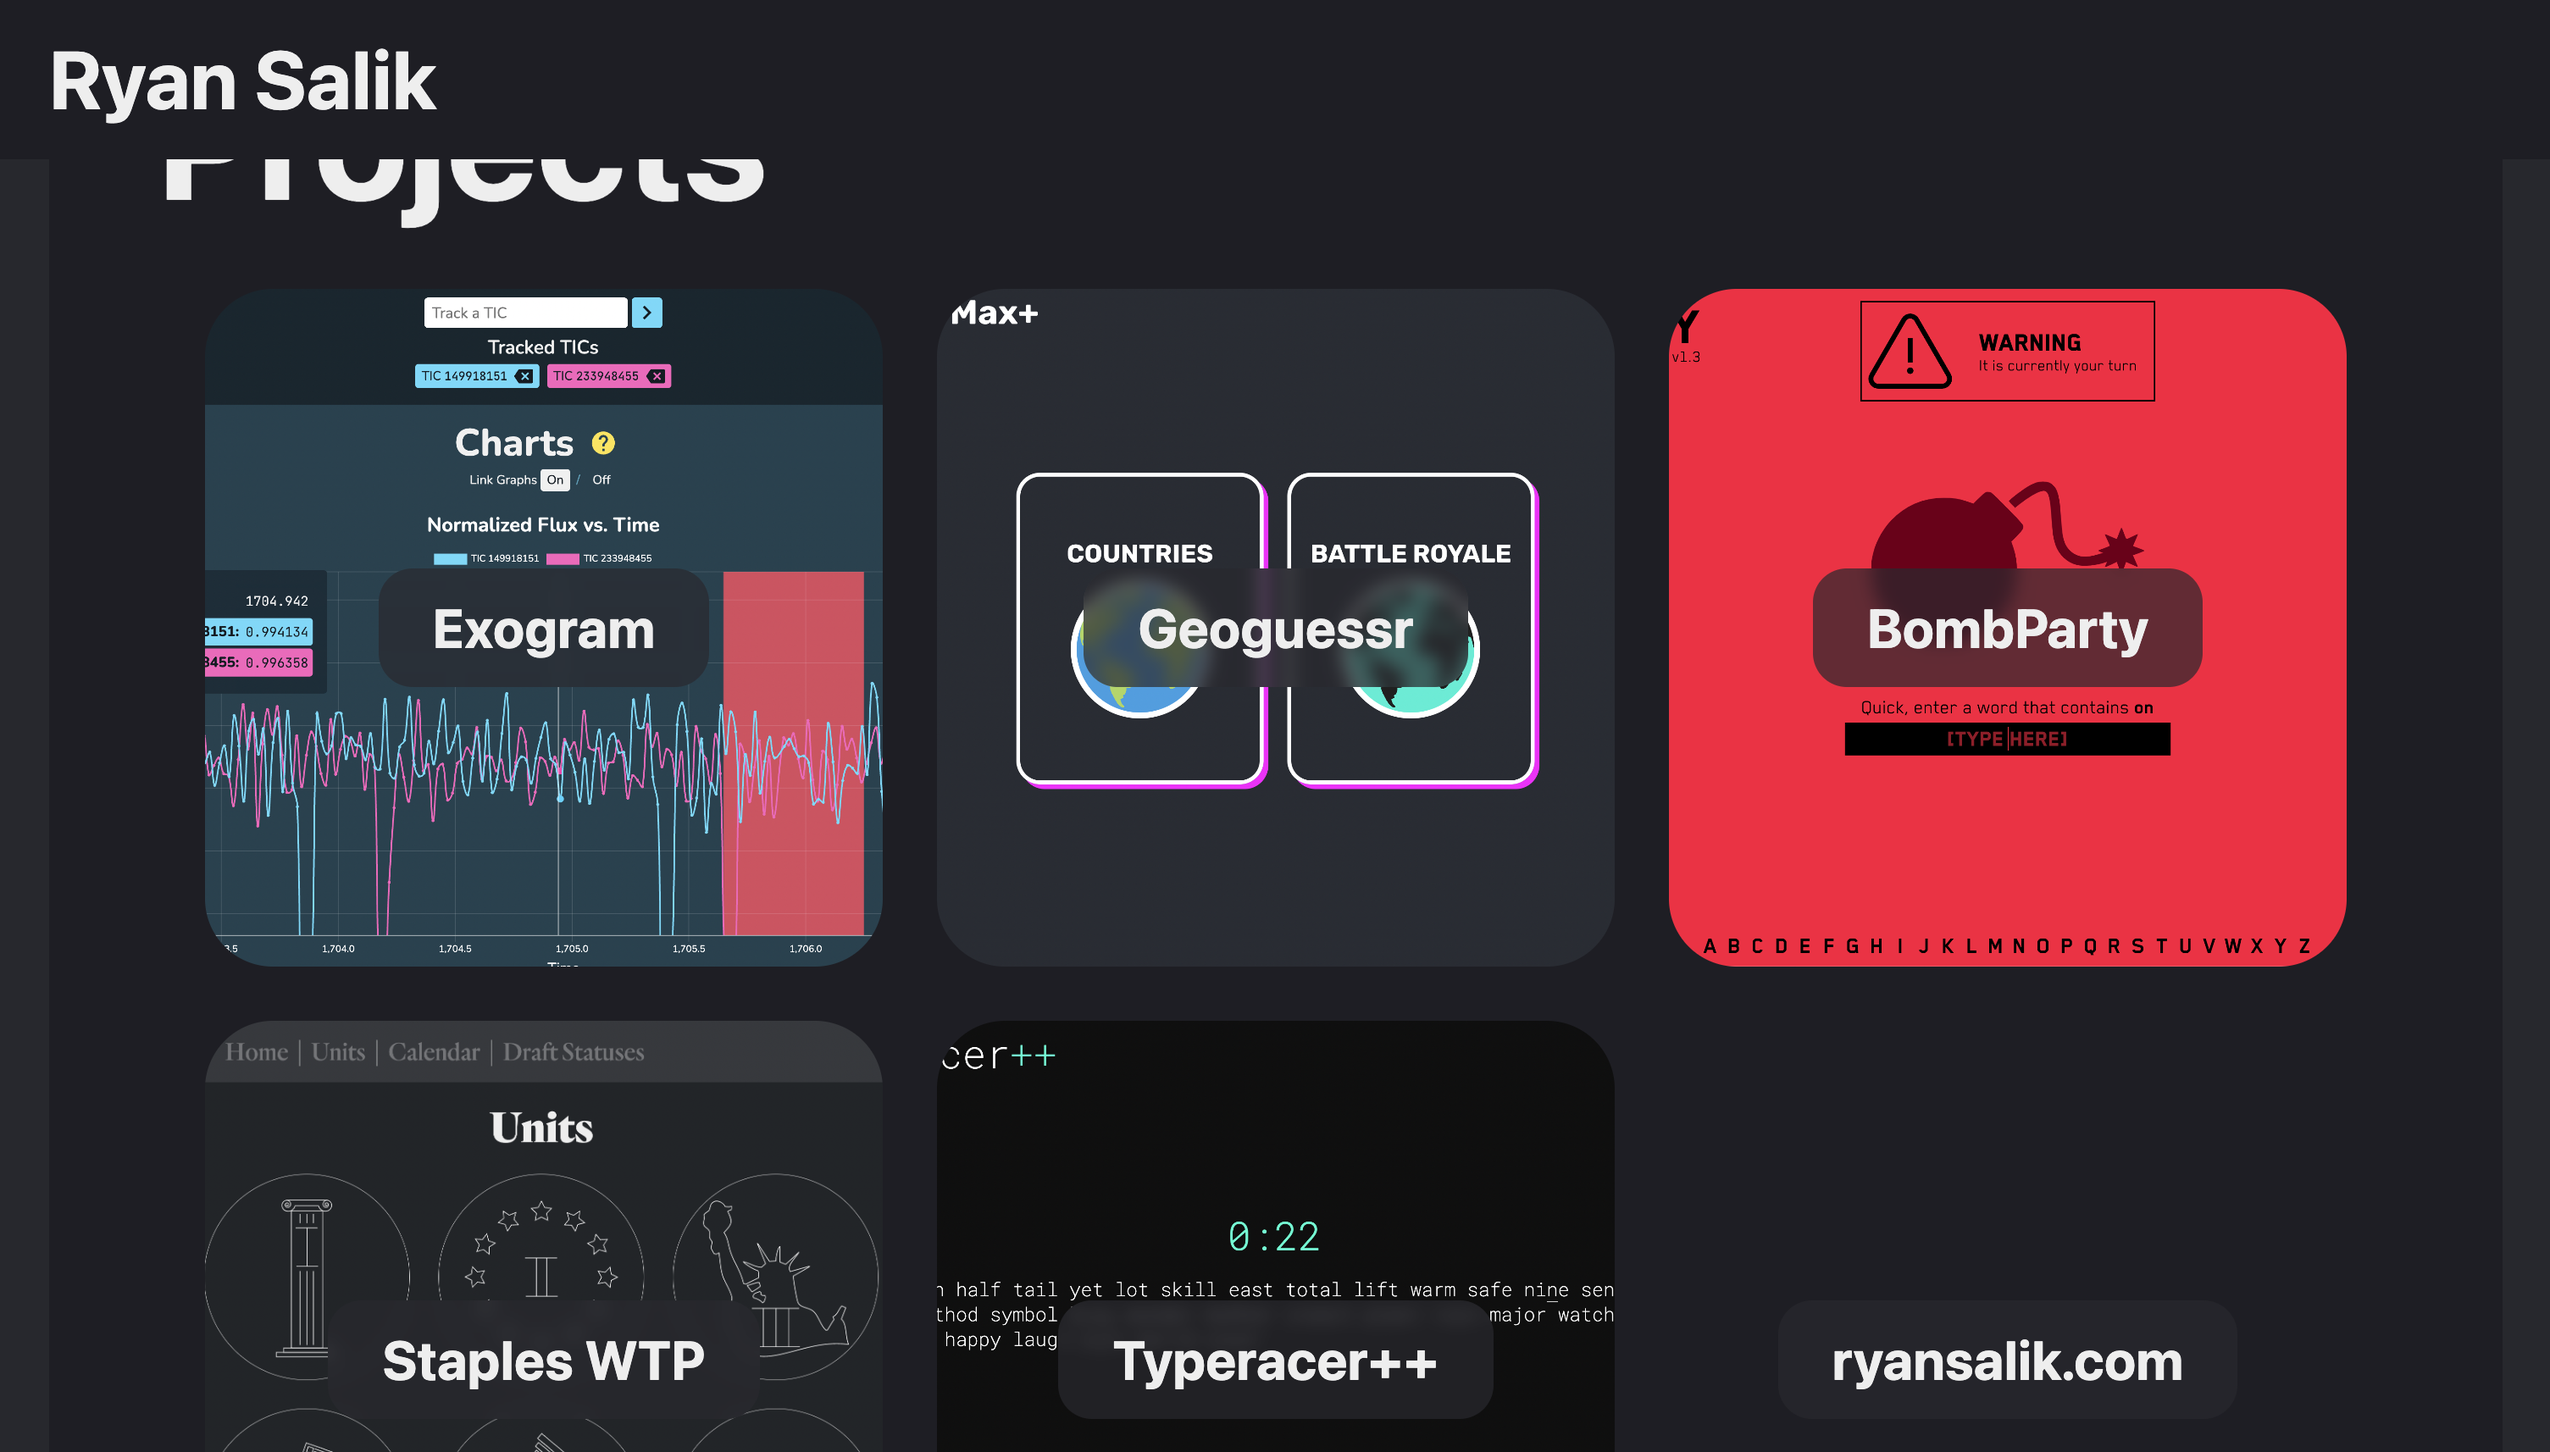
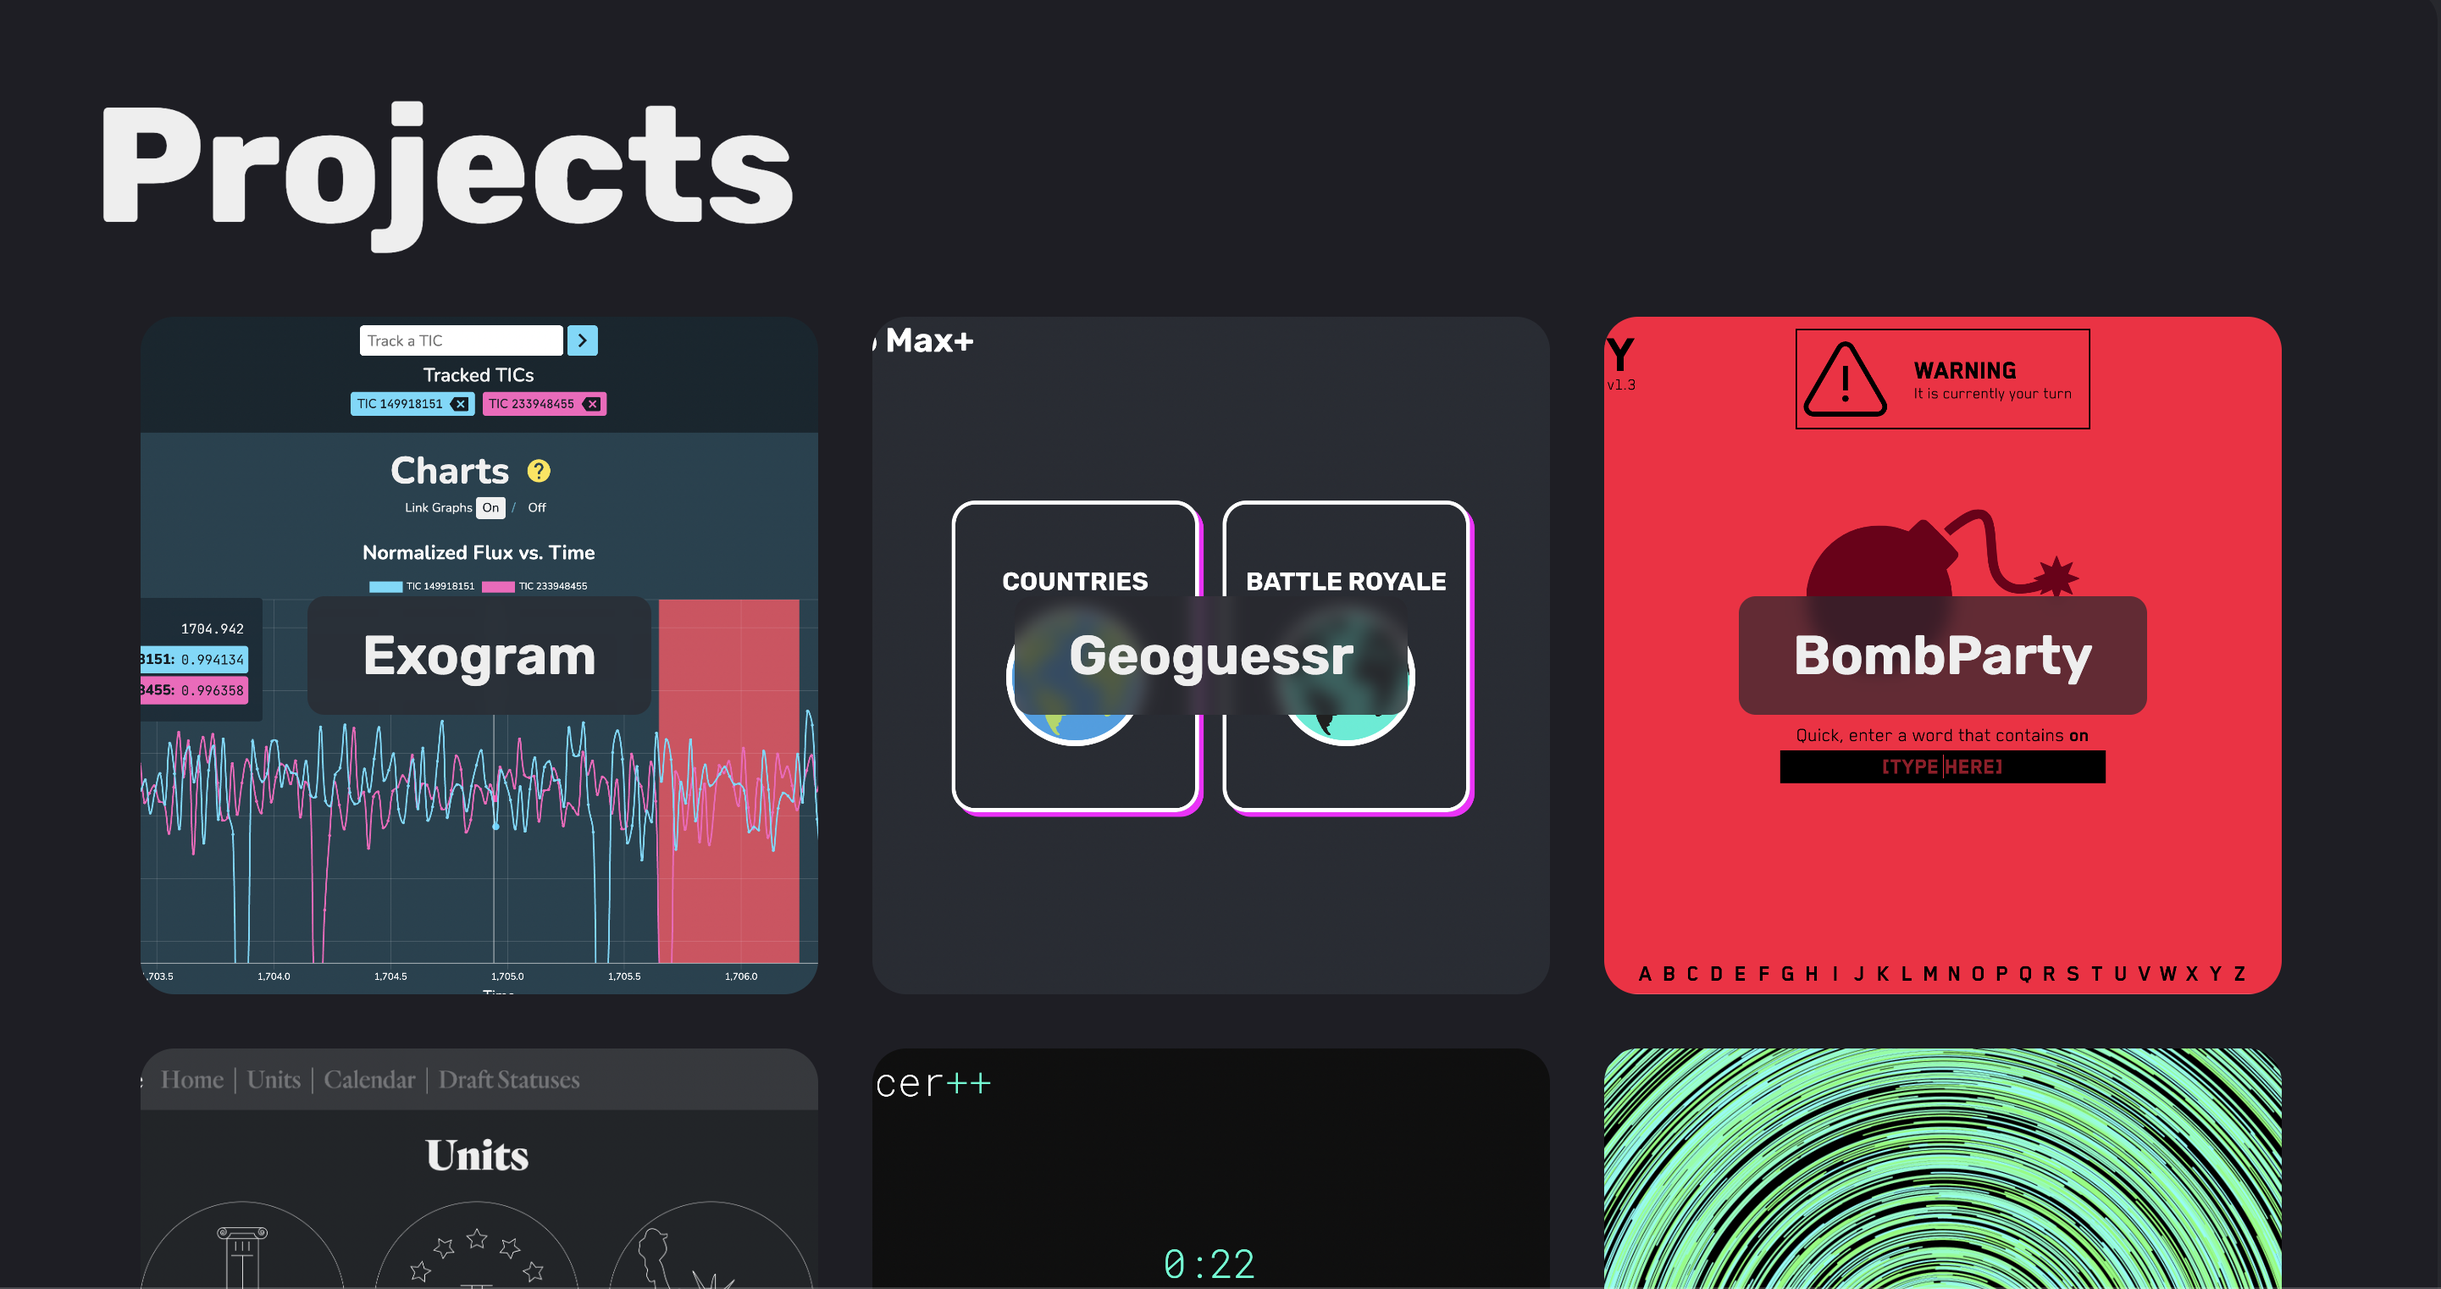
Cooler Landing Panel with Canvas

diff --git a/src/components/TitleCanvas.tsx b/src/components/TitleCanvas.tsx
@@ -1,0 +1,121 @@
+import { onCleanup, onMount } from 'solid-js';
+import { sign } from 'solid-start/session/cookieSigning';
+
+export default function TitleCanvas() {
+  let canvasRef;
+
+  let intervals = [];
+
+  onMount(() => {
+    const ctx = canvasRef.getContext('2d');
+
+    // Set canvas size
+    canvasRef.width = window.innerWidth * 3;
+    canvasRef.height = window.innerHeight * 3;
+
+    ctx.lineCap = 'round';
+
+    let particles = [];
+
+    const PARTICLE_COUNT = 2000;
+
+    for (let i = 0; i < PARTICLE_COUNT; i++) {
+      const theta = Math.random() * 2 * Math.PI;
+      const radius = Math.random() * 0.5 * Math.max(canvasRef.width, canvasRef.height);
+
+      particles.push(new Particle(canvasRef.width / 2 + radius * Math.cos(theta), canvasRef.height / 2 + radius * Math.sin(theta)));
+    }
+
+    let colorTheme = COLOR_THEME_BLUE;
+
+    intervals.push(
+      setInterval(() => {
+        particles.forEach((p) => {
+          p.update(ctx, colorTheme);
+        });
+      }, 1000 / 60)
+    );
+
+    let circle = true;
+    colorTheme = COLOR_THEME_BLUE;
+    periodDivisor = 2000;
+
+    intervals.push(
+      setInterval(() => {
+        if (circle) {
+          colorTheme = COLOR_THEME_RED;
+          periodDivisor = 200;
+        } else {
+          colorTheme = COLOR_THEME_BLUE;
+          periodDivisor = 2000;
+        }
+
+        circle = !circle;
+      }, 1000 * 10)
+    );
+  });
+
+  onCleanup(() => {
+    intervals.forEach(clearInterval);
+  });
+
+  return <canvas class="title-canvas" ref={canvasRef} />;
+}
+
+const COLOR_THEME_BLUE = ['#71fff6', '#71ffcb', '#71ff9e', '#71ff71'];
+const COLOR_THEME_RED = ['#ff7171', '#ff9e71', '#ffcb71', '#fff671'];
+
+let periodDivisor = 2000;
+const MULTIPLIER = 3;
+
+class Particle {
+  x: number;
+  y: number;
+
+  lastX: number;
+  lastY: number;
+
+  radius: number;
+  colorIndex: number;
+  speed: number;
+  direction: number;
+
+  constructor(x, y) {
+    this.x = x;
+    this.y = y;
+    this.lastX = x;
+    this.lastY = y;
+
+    this.radius = Math.random() * 2 + 5;
+    this.colorIndex = Math.floor(Math.random() * COLOR_THEME_BLUE.length);
+    this.speed = Math.random() * 0.5 + 1.5;
+    this.direction = Math.random() > 0.5 ? 1 : -1;
+  }
+
+  draw(ctx: CanvasRenderingContext2D, colorTheme = COLOR_THEME_BLUE) {
+    ctx.beginPath();
+    ctx.moveTo(this.lastX, this.lastY);
+    ctx.strokeStyle = colorTheme[this.colorIndex];
+    ctx.lineWidth = this.radius;
+    ctx.lineTo(this.x, this.y);
+    ctx.stroke();
+  }
+
+  update(ctx: CanvasRenderingContext2D, colorTheme = COLOR_THEME_BLUE) {
+    this.draw(ctx, colorTheme);
+
+    this.lastX = this.x;
+    this.lastY = this.y;
+
+    this.x += getDeltaX(this, ctx) * this.speed * this.direction;
+    this.y += getDeltaY(this, ctx) * this.speed * this.direction;
+  }
+}
+
+function getDeltaX(p: Particle, ctx: CanvasRenderingContext2D) {
+  return Math.sin((p.y - ctx.canvas.height / 2) / periodDivisor) * MULTIPLIER;
+}
+
+function getDeltaY(p: Particle, ctx: CanvasRenderingContext2D) {
+  return -Math.sin((p.x - ctx.canvas.width / 2) / periodDivisor) * MULTIPLIER;
+}

diff --git a/src/styles/components/_TitleSection.sass b/src/styles/components/_TitleSection.sass
@@ -19,7 +19,8 @@
 
     height: 100%
 
-    background: $darkbkg
+    //background: $darkbkg
+    background: none
 
     .text
       font-size: 10em
@@ -30,16 +31,22 @@
 
   .title
     background-attachment: fixed
-    background: $gradient
+    //background: $gradient
+    background: none
 
     .text
-      color: $bkg
+      color: $darkbkg
 
   .title-invert
+    background: $darkbkg
+
     .text
       background: $gradient
       -webkit-background-clip: text
       -webkit-text-fill-color: transparent
+  canvas
+    width: 100vw
+    background: #000
 
 @media screen and (max-width: $mobile)
   .title-wrapper

diff --git a/src/components/TitleSection.tsx b/src/components/TitleSection.tsx
@@ -1,4 +1,5 @@
 import { createSignal, onMount } from 'solid-js';
+import TitleCanvas from './TitleCanvas';
 
 export default function TitleSection(props: any) {
   const [opacity, setOpacity] = createSignal(0);
@@ -16,6 +17,7 @@ export default function TitleSection(props: any) {
 
   return (
     <div class="title-wrapper" ref={props.ref}>
+      <TitleCanvas />
       <div class="section title" style={{ opacity: 1 - opacity() }}>
         <div class="text">Ryan Salik</div>
       </div>

diff --git a/src/routes/index.tsx b/src/routes/index.tsx
@@ -1,6 +1,7 @@
 import { Title } from 'solid-start';
 import ContactSection from '~/components/ContactSection';
 import ProjectsSection from '~/components/ProjectsSection';
+import TitleCanvas from '~/components/TitleCanvas';
 import TitlePageContentWrapper from '~/components/TitlePageContentWrapper';
 import TitleSection from '~/components/TitleSection';
 

diff --git a/src/styles/_values.sass b/src/styles/_values.sass
@@ -1,10 +1,10 @@
-$primary: #fff171
+$primary: #71fff6
 $bkg: #27282e
 $color: #eee
 
 $darkbkg: #1e1e24
 
-$gradient: linear-gradient(145deg, #ff71cb, #fff171, #71fff6)
+$gradient: linear-gradient(145deg, #71ff71, #71ffcb, #71fff6)
 
 $mobile: 768px
 
